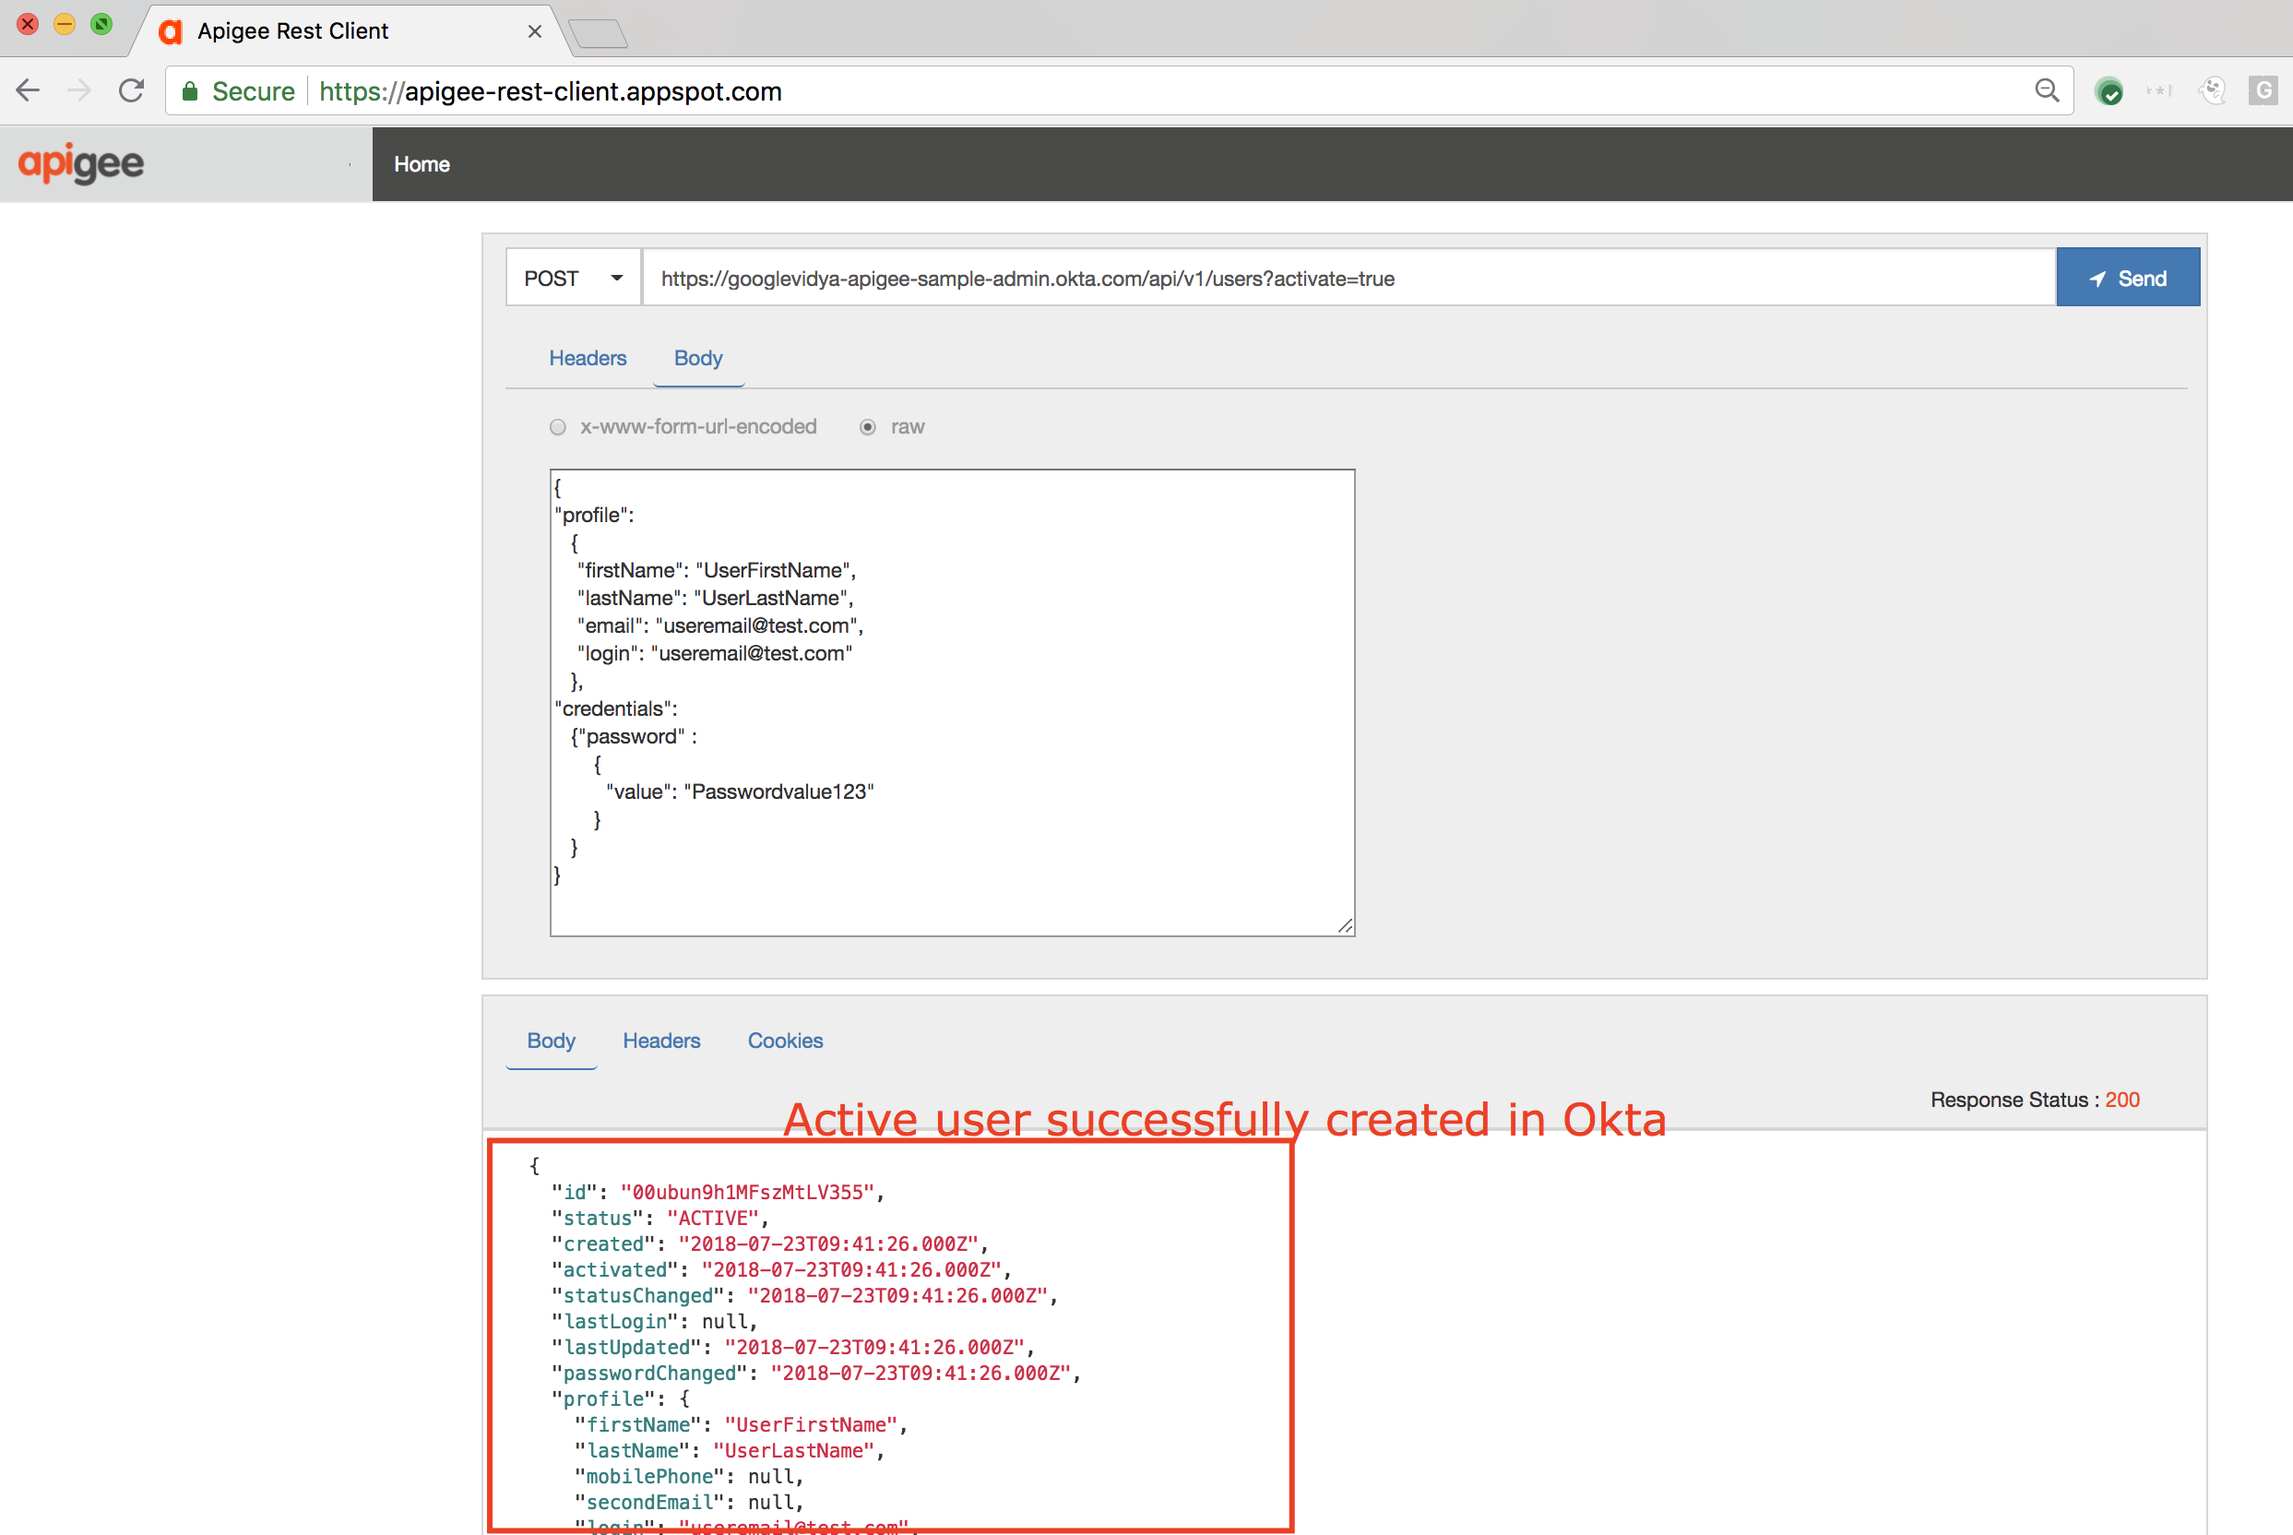
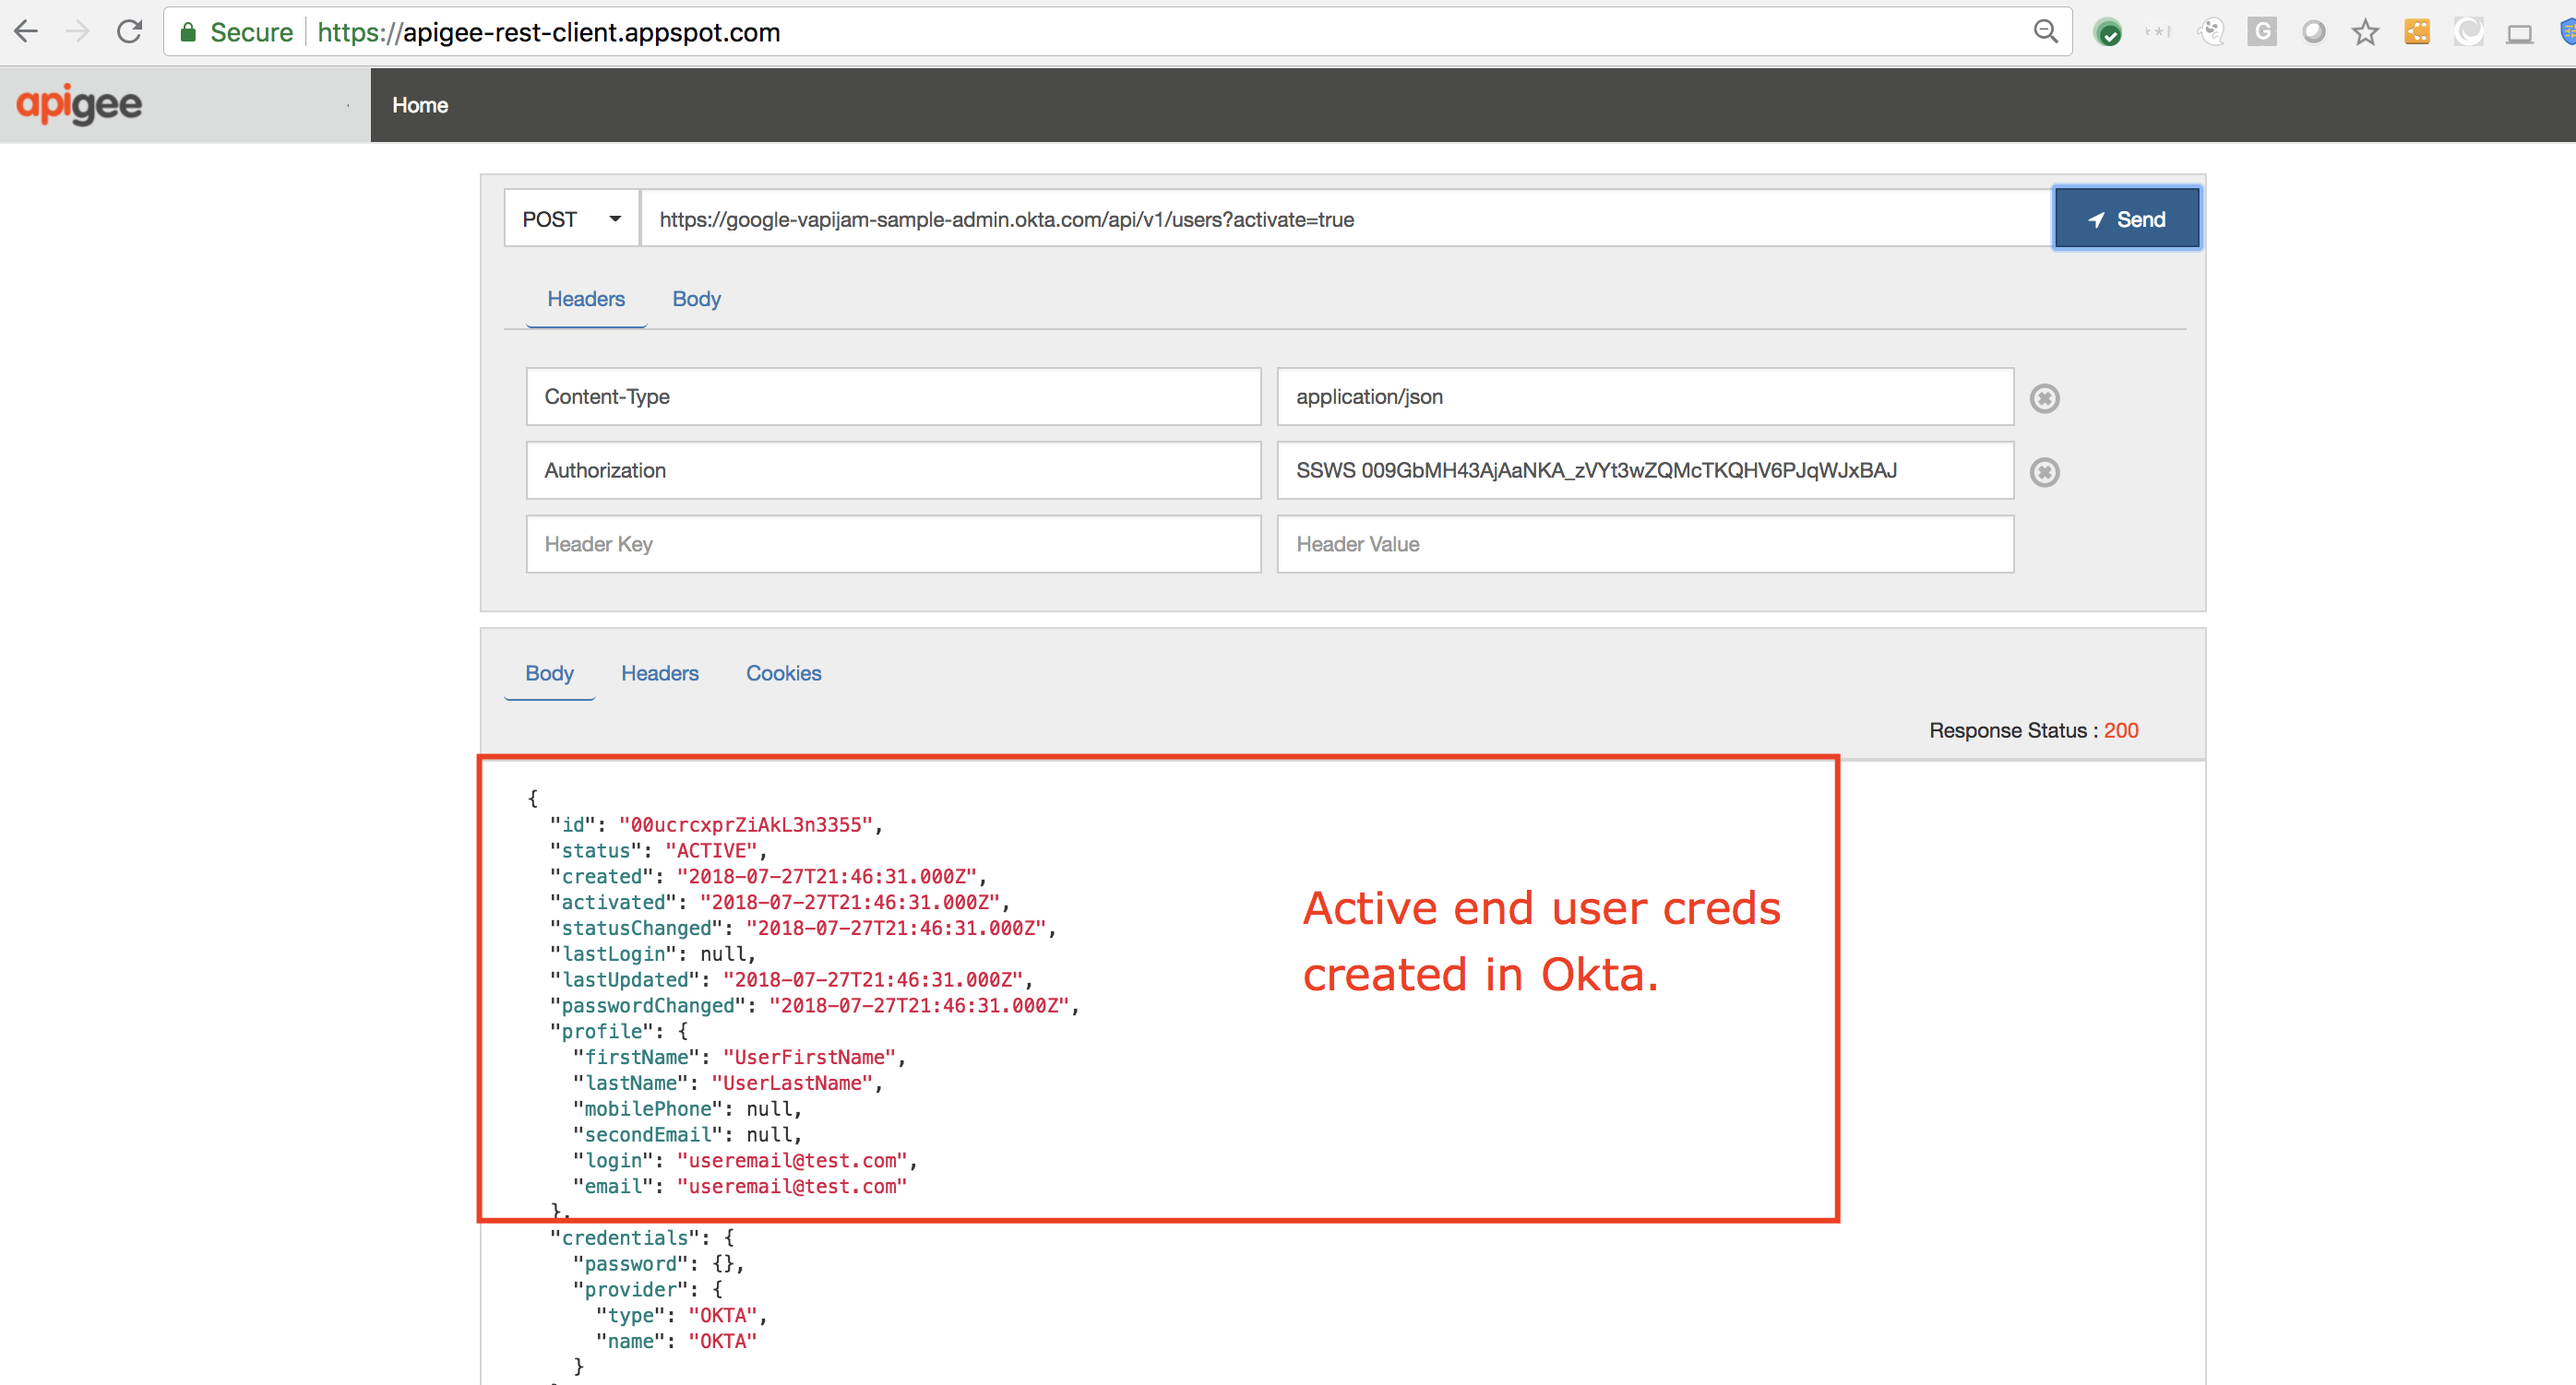
Adding LAb 5 changes for Okta config

diff --git a/SecurityJam/Lab 5 - External OAuth Token using Okta/README.md b/SecurityJam/Lab 5 - External OAuth Token using Okta/README.md
@@ -33,7 +33,7 @@ b) The API proxy configuration in Apigee Edge to enforce both end user identity 
 1. In this lab, we will use a pre-configured Okta instance to authenticate end user identity. To add a new app end user, we will use the Okta User API.
 Invoke the following API request (either from a terminal or [REST client](https://apigee-rest-client.appspot.com/)):
 ```
-curl -X POST "https://googlevidya-apigee-sample-admin.okta.com/api/v1/users?activate=true" -H "Content-Type: application/json" -H "Authorization: SSWS 00gQdAVXg9db3Wx2UfXsAfECy8wdyHLEu3ePDFu7Cp" -d '{"profile": {"firstName": "UserFirstName","lastName": "UserLastName","email": "useremail@test.com","login": "useremail@test.com"},"credentials": {"password" : { "value": "Passwordvalue123"}}}'
+curl -X POST "https://google-vapijam-sample-admin.okta.com/api/v1/users?activate=true" -H "Content-Type: application/json" -H "Authorization: SSWS 009GbMH43AjAaNKA_zVYt3wZQMcTKQHV6PJqWJxBAJ" -d '{"profile": {"firstName": "UserFirstName","lastName": "UserLastName","email": "useremail@test.com","login": "useremail@test.com"},"credentials": {"password" : { "value": "Passwordvalue123"}}}'
 ```
 
 ![image alt text](./media/RESTClient-Okta-User-API-Request1.png)
